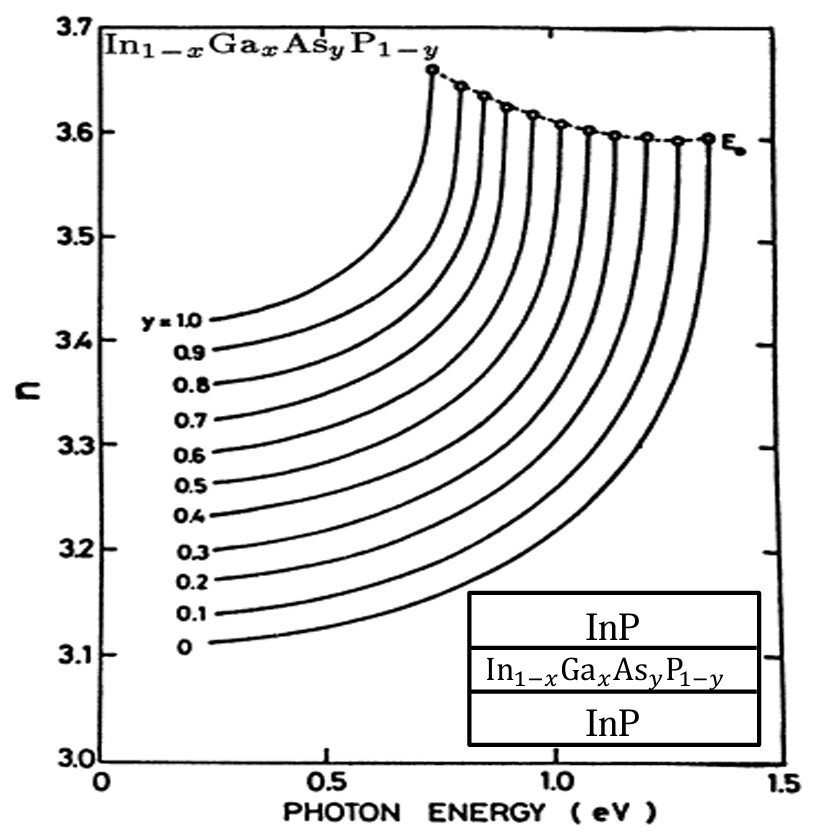
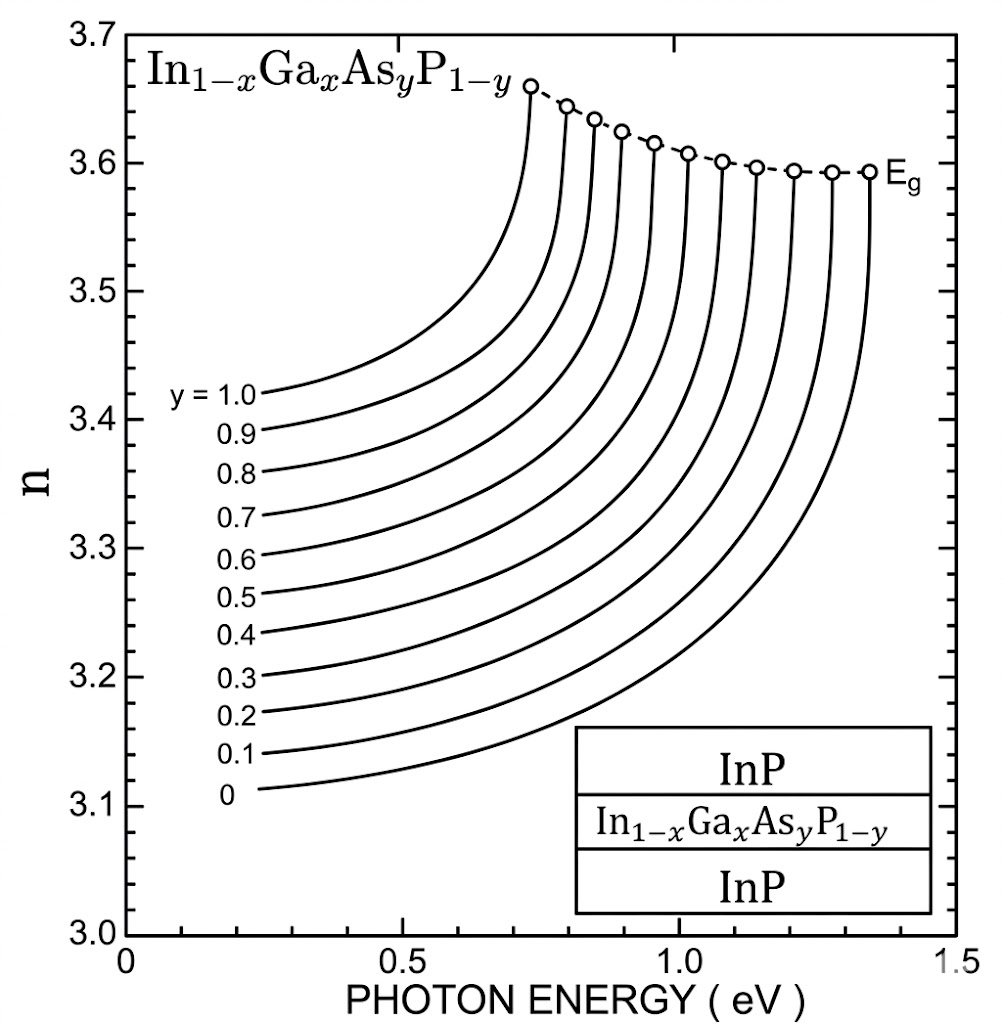
Enhanced image placement quality across sheets; fixed figure float specifier warning.

diff --git a/Complete_Sheets_Solutions/Sheets/Sheet 8.tex b/Complete_Sheets_Solutions/Sheets/Sheet 8.tex
@@ -179,15 +179,15 @@ Using the compact form $hc/e = 1.24\,\text{eV}\cdot\mu\text{m}$:
 \end{equation*}
 
 \begin{question}[Question 5]
-\begin{wrapfigure}{r}{0.35\linewidth}
-  \centering
-  \includegraphics[width=\linewidth]{../Figures/Sheet 8/q5.jpg}
-\end{wrapfigure}
-The refractive index of a silicon photodetector is 3.5. Under reverse bias the width of the depletion region is 10 \si{\micro\meter} while the thickness of the material through which the light must pass before reaching the depletion region is 5\si{\micro\meter}. If the free-space wavelength of light is 0.8 \si{\micro\meter}, find the absorption coefficient using the figure. Then, calculate the following\\[1ex]
+The refractive index of a silicon photodetector is 3.5. Under reverse bias the width of the depletion region is 10 \si{\micro\meter} while the thickness of the material through which the light must pass before reaching the depletion region is 5\si{\micro\meter}. If the free-space wavelength of light is 0.8 \si{\micro\meter}, find the absorption coefficient using the figure.
+\begin{center}
+  \includegraphics[width=0.52\linewidth]{../Figures/Sheet 8/q5.jpg}
+\end{center}
+Then, calculate the following\\[0.5ex]
 (a) The quantum efficiency assuming that the surrounding medium is air.\\
 (b) The maximum detectable wavelength.\\
 (c) The responsivity.\\
-(d) The photocurrent when the incident power is 1.5 \si{\micro\watt}.\rule{0pt}{4cm}
+(d) The photocurrent when the incident power is 1.5 \si{\micro\watt}.
 \end{question}
 
 \textbf{\large Solution --- Question 5}
@@ -255,13 +255,12 @@ A photon must have energy at least equal to the silicon bandgap to generate an e
 
 
 \begin{question}[Question 6]
-\begin{wrapfigure}{r}{0.35\linewidth}
-  \centering
-  \includegraphics[width=\linewidth]{../Figures/Sheet 8/q6.jpg}
-\end{wrapfigure}
-The refractive index of a silicon photodetector is 3.5. Under reverse bias the width of the depletion region is 10 \si{\micro\meter} while the thickness of the material through which the light must pass before reaching the depletion region is 5\si{\micro\meter}. Light of free-space wavelength 0.8 \si{\micro\meter} is incident from air on the photodetector with a power of 1.5 \si{\micro\watt}. The absorption coefficient of this light inside the photodetector is 800 cm$^{-1}$.\\[1ex]
+The refractive index of a silicon photodetector is 3.5. Under reverse bias the width of the depletion region is 10 \si{\micro\meter} while the thickness of the material through which the light must pass before reaching the depletion region is 5\si{\micro\meter}. Light of free-space wavelength 0.8 \si{\micro\meter} is incident from air on the photodetector with a power of 1.5 \si{\micro\watt}. The absorption coefficient of this light inside the photodetector is 800 cm$^{-1}$.
+\begin{center}
+  \includegraphics[width=0.52\linewidth]{../Figures/Sheet 8/q6.jpg}
+\end{center}
 (a) Sketch the distribution of the light power along the depth of penetration inside the photodetector starting from air.\\
-(b) Calculate the following (1) The quantum efficiency, (2) The maximum detectable wavelength if the energy gap of silicon is 1.11 eV. (3) The responsivity. (4) The photocurrent.\rule{0pt}{4cm}
+(b) Calculate the following (1) The quantum efficiency, (2) The maximum detectable wavelength if the energy gap of silicon is 1.11 eV. (3) The responsivity. (4) The photocurrent.
 \end{question}
 
 \textbf{\large Solution --- Question 6}
@@ -290,7 +289,7 @@ The power at the far edge of the depletion region ($x = x_0 + W$) is:
 
 The distribution of power $P(x)$ inside the silicon starts at $(1-R)P_{\text{inc}}$ at $x=0^+$, drops with the exponential decay constant $1/\alpha = 12.5\,\mu\text{m}$ throughout both the contact layer and the depletion region, as illustrated in the figure below. Note that there is a discontinuous step at $x=0$ from $P_{\text{inc}}$ down to $(1-R)P_{\text{inc}}$ due to surface reflection.
 
-\begin{figure}[h]
+\begin{figure}[H]
   \centering
   \includegraphics[width=0.72\textwidth]{../Figures/Sheet 8/q6_power_distribution.jpg}
 \end{figure}

diff --git a/Complete_Sheets_Solutions/Sheets/Sheet 7.tex b/Complete_Sheets_Solutions/Sheets/Sheet 7.tex
@@ -28,13 +28,16 @@ Electron Affinity (eV) & $4.07 - 1.1x$ & $3.64 - 0.14x$ \\
 \end{tabular}
 \end{center}
 
-\begin{wrapfigure}{r}{0.45\linewidth}
-  \centering
-  \includegraphics[width=\linewidth]{../Figures/Sheet 7/q2_b.jpg}
-\end{wrapfigure}
+
+\noindent\begin{minipage}[c]{0.51\linewidth}
 (b) The figure shown plots the refractive index of Al$_x$Ga$_{1-x}$As against photon energy (with $x$ increments of 0.1). Use this figure to find the refractive index in the active layer and in the cladding layers.\\[1ex]
 (c) Find the maximum thickness of the active layer to support a single transverse mode.\\
-(d) Mention two advantages of a double-heterostructure laser compared to a single-heterojunction laser?\rule{0pt}{4cm}
+(d) Mention two advantages of a double-heterostructure laser compared to a single-heterojunction laser?
+\end{minipage}\hfill
+\begin{minipage}[c]{0.45\linewidth}
+  \centering
+  \includegraphics[width=\linewidth]{../Figures/Sheet 7/q2_b.jpg}
+\end{minipage}
 \end{question}
 
 \begin{question}[Question 3]
@@ -77,11 +80,13 @@ The lattice spacing of In$_{1-x}$Ga$_x$As$_y$P$_{1-y}$ has been shown to obey Ve
 \end{question}
 
 \begin{question}[Question 7]
-\begin{wrapfigure}{r}{0.35\linewidth}
-  \centering
-  \includegraphics[width=\linewidth]{../Figures/Sheet 7/q7.jpg}
-\end{wrapfigure}
+\noindent\begin{minipage}[c]{0.60\linewidth}
 The active layer of a semiconductor laser is made of In$_{1-x}$Ga$_x$As$_y$P$_{1-y}$ while the upper and lower cladding layers are made of InP (as shown at the inset of the figure).\\[1ex]
 (a) If the energy gap $E_g = 1.3 - 0.72 y + 0.12 y^2$ (eV), then find $y$ and $x$ to emit light at 1.3 \si{\micro\meter}.\\
-(b) Use the figure shown (which plots the refractive index of the active layer versus photon energy at different $y$ in steps of 0.1) to find the thickness of the active layer that maximizes optical confinement under single-mode condition.\rule{0pt}{4cm}
+(b) Use the figure shown (which plots the refractive index of the active layer versus photon energy at different $y$ in steps of 0.1) to find the thickness of the active layer that maximizes optical confinement under single-mode condition.
+\end{minipage}\hfill
+\begin{minipage}[c]{0.36\linewidth}
+  \centering
+  \includegraphics[width=\linewidth]{../Figures/Sheet 7/q7.jpg}
+\end{minipage}
 \end{question}

diff --git a/Complete_Sheets_Solutions/Sheets/Sheet 5.tex b/Complete_Sheets_Solutions/Sheets/Sheet 5.tex
@@ -253,11 +253,13 @@ An identical procedure applies to the valence band, yielding the hole quasi-Ferm
 If the semiconductor is highly degenerate at an arbitrary temperature $T$, meaning $E_{fc} - E_c \gg k_B T$ and $E_v - E_{fv} \gg k_B T$, the quasi-Fermi levels lie deeply within the bands. Under these conditions, the Fermi-Dirac occupation function retains its step-like character up to the Fermi level. The same mathematical approximation ($x \gg 1$) remains valid, meaning the thermal smearing at the distribution edge contributes negligibly to the overall carrier concentration integral. Thus, these expressions hold robustly as an approximation for heavily pumped or heavily doped materials at room temperature.
 
 \begin{question}[Question 5]
-\begin{wrapfigure}{r}{0.35\linewidth}
+\noindent\begin{minipage}[c]{0.58\linewidth}
+Consider the unlikely event of phonon-assisted emission in silicon. A photon is emitted by (a) absorbing or (b) emitting a longitudinal-acoustic (LA) phonon of energy 30 meV. Calculate the wavelength of the emitted photon and the momentum of the LA phonon in both cases (a) and (b). Calculate the difference between the wavelengths of the emitted photons in the two cases. Assume that the energy gap of silicon is $E_g = 1.1$ eV, the lattice constant $a = 5.43$ \AA, and that the minimum of the conduction band at the X point is approximately $(k_x = 2\pi/a, k_y = 0, k_z = 0)$.
+\end{minipage}\hfill
+\begin{minipage}[c]{0.38\linewidth}
   \centering
   \includegraphics[width=\linewidth]{../Figures/Sheet 5/q5.jpg}
-\end{wrapfigure}
-Consider the unlikely event of phonon-assisted emission in silicon. A photon is emitted by (a) absorbing or (b) emitting a longitudinal-acoustic (LA) phonon of energy 30 meV. Calculate the wavelength of the emitted photon and the momentum of the LA phonon in both cases (a) and (b). Calculate the difference between the wavelengths of the emitted photons in the two cases. Assume that the energy gap of silicon is $E_g = 1.1$ eV, the lattice constant $a = 5.43$ \AA, and that the minimum of the conduction band at the X point is approximately $(k_x = 2\pi/a, k_y = 0, k_z = 0)$.\rule{0pt}{4cm}
+\end{minipage}
 \end{question}
 
 \textbf{\large Solution --- Question 5}
